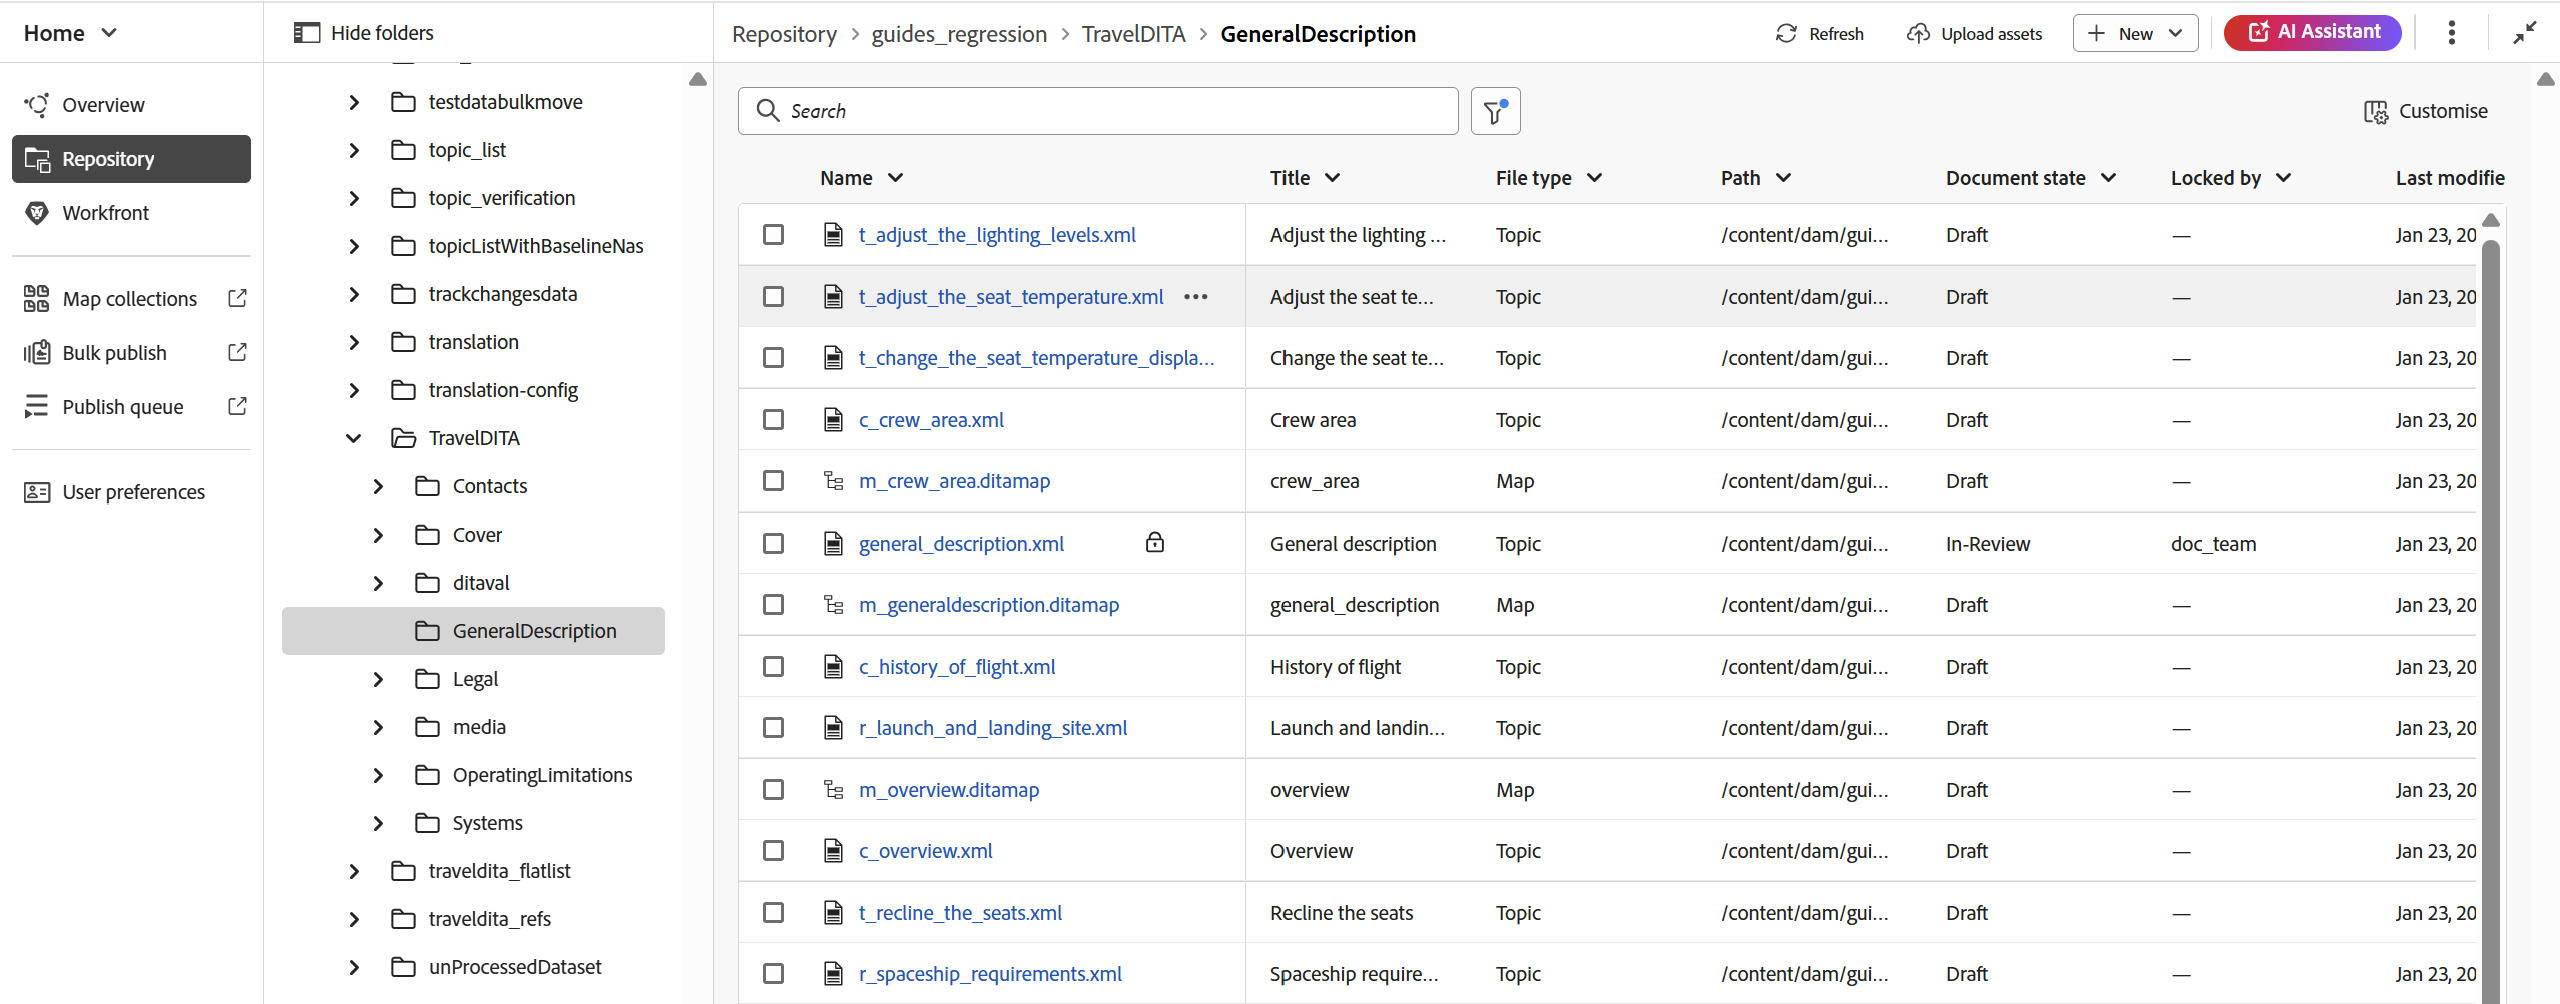
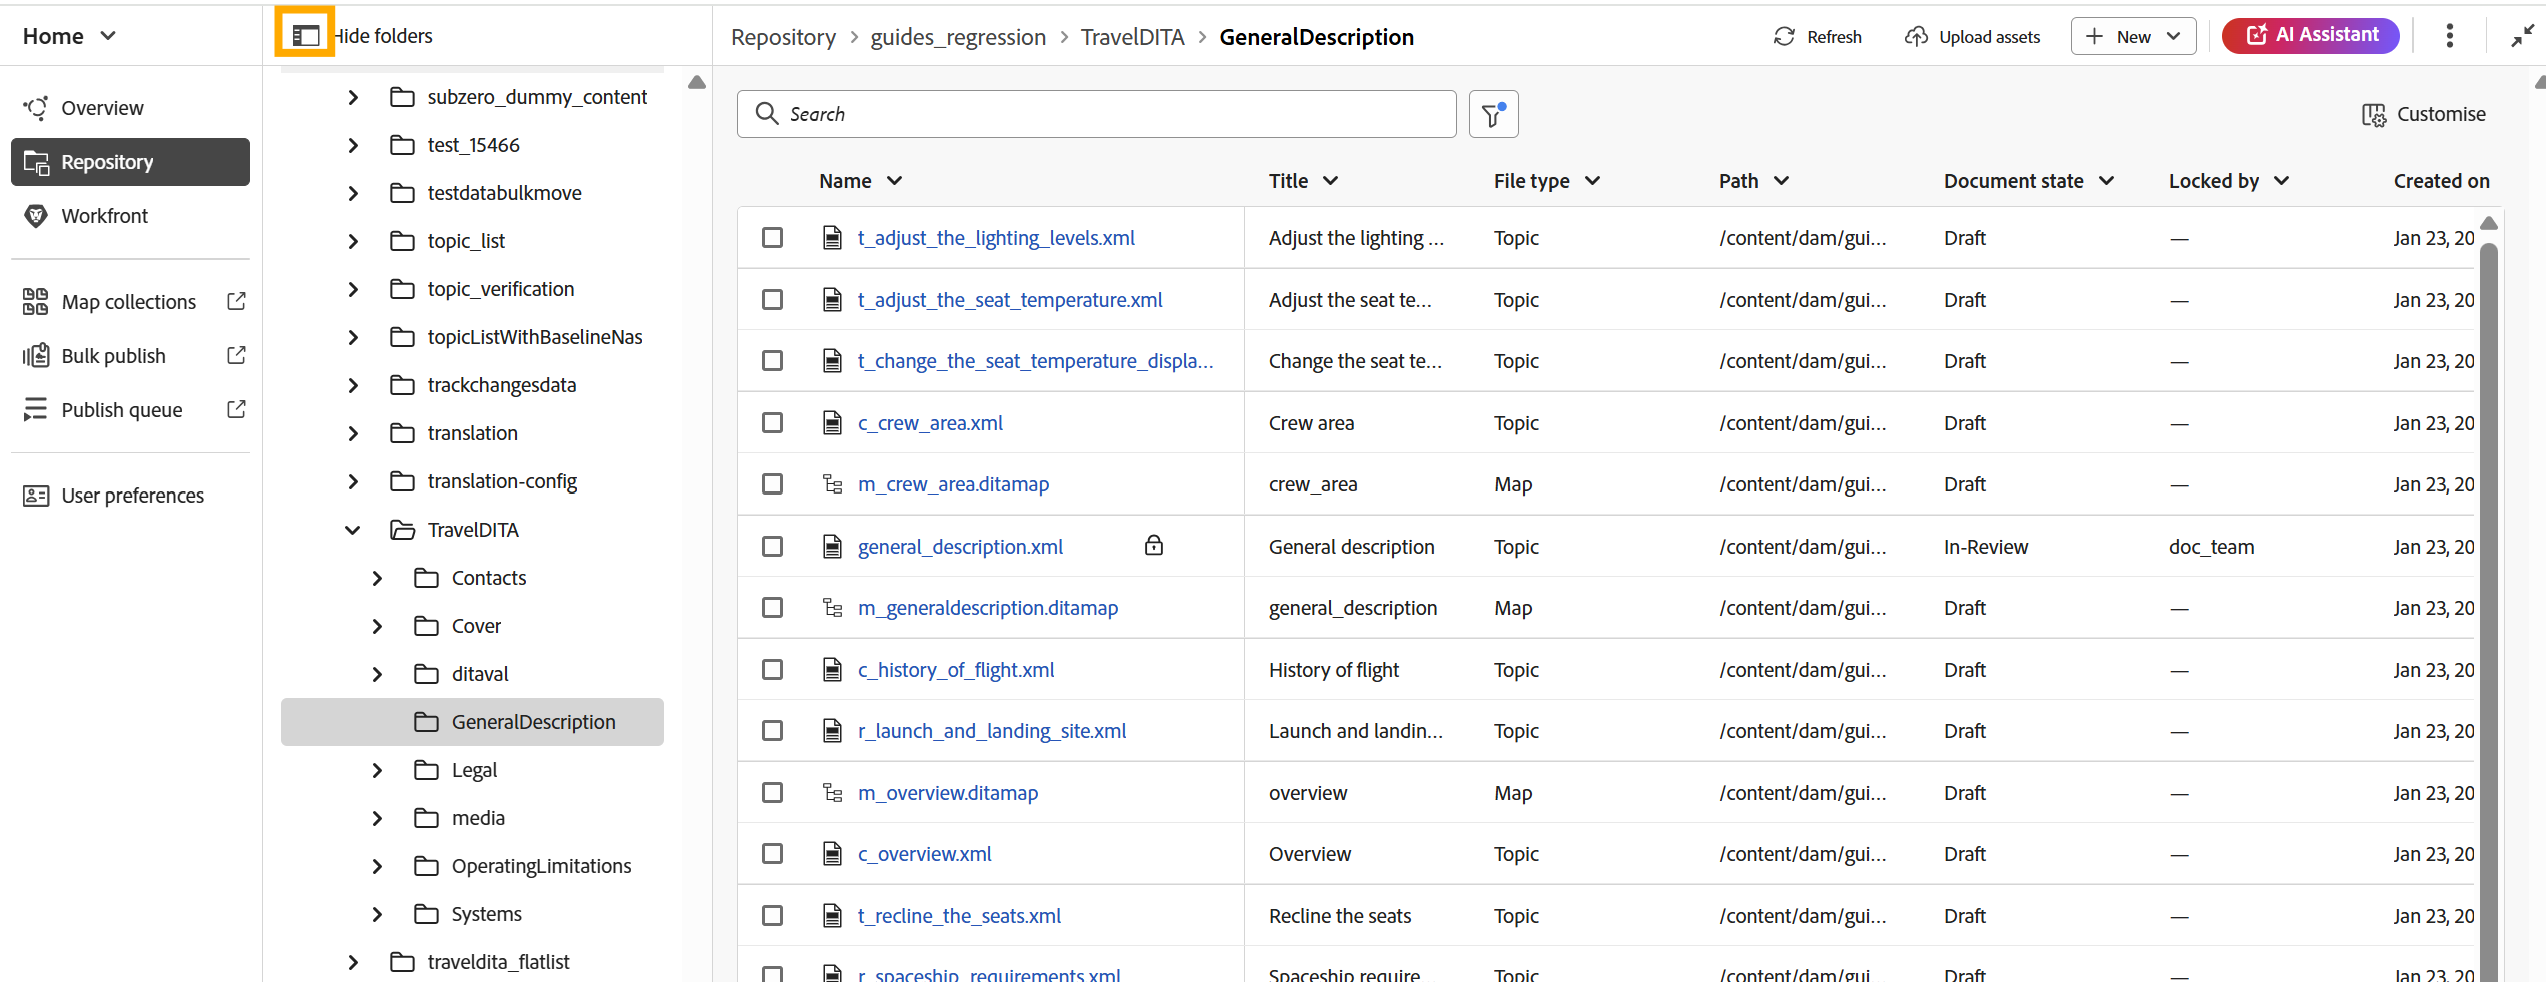
Repository view and related file updates

diff --git a/help/product-guide/user-guide/home-repository-view.md b/help/product-guide/user-guide/home-repository-view.md
@@ -18,18 +18,21 @@ It consists of the options as listed below.
 
 ![](images/repository-view-home.png){align="left"}
 
-**Tab bar**
+### Tab bar
 
 The Tab Bar, located at the top of the Repository interface, provides quick access to essential actions as listed.
 
 ![](images/tab-bar-repository-view.png){align="left"}
 
 
-- **Folder navigation panel**: Displays a hierarchical, tree-like structure of folders within the Repository, enabling seamless navigation. This panel shows folder-level information only. When a folder is selected from here, its contents, files and, sub-folders are displayed in the main view.
+- **Folder navigation panel**: Displays a hierarchical, tree-like structure of folders within the Repository, enabling seamless navigation. This panel shows folder-level information only. You can select the icon highlighted in the image below to show and hide this panel. When a folder is selected from here, its contents, files and, sub-folders are displayed in the central space.
 
     ![](images/folder-navigation-panel.png){align="left"}
 
-- **Breadcrumbs**: These offers navigation through the folders. You can use the breadcrumbs to traverse to the required location directly by directly selecting the required location. 
+- **Breadcrumbs**: These offers navigation through the folders. You can use the breadcrumbs to traverse to the required location by directly selecting the required location. 
+
+    ![](images/breadcrumbs.png){align="left"}
+
 - **Refresh**: Updates the Repository view to reflect the latest changes.
 - **Upload Assets**: Allows you to upload assets directly to the selected folder.
 - **New**: Enables the creation of new topics, maps, and folders within the Repository.
@@ -37,11 +40,11 @@ The Tab Bar, located at the top of the Repository interface, provides quick acce
 - **More actions**: Provides access to Workspace settings and Assets
 - **Expand view**: Allows you to expand the page view using the **Expand** icon.
 
-**Repository central window**
+### Repository view
 
-The Repository view serves as the central window where all folders and files within the repository are displayed. This interface offers customization options to enhance usability and visibility:
+The Repository view serves as the central space where all folders and files within the repository are displayed. It offers customization options and additional features to enhance usability and visibility as listed below:
 
-- **Customise**: You can modify the columns displayed by using the **Customise** option located at the top-right corner of the central window that provides a toggle control for the available fields. The Name and Title fields are mandatory and both cannot be disabled together. Other fields, such as File Type, UUID, Document State, Locked By, Created On, and Modified On, can be enabled or disabled as needed. You can also rearrange them by dragging and dropping.
+- **Customise**: You can modify the columns displayed by using the **Customise** option located at the top-right corner of the Repository view that provides a toggle control for the available fields. The Name or Title columns are mandatory and both cannot be disabled together. Other fields, such as File Type, UUID, Document State, Locked By, Created On, and Modified On, can be enabled or disabled as needed. You can also rearrange them by dragging and dropping.
 
     ![](images/customize-repo-view.png){align="left"}
 
@@ -51,7 +54,7 @@ The Repository view serves as the central window where all folders and files wit
 
 - **Editing the file**: 
 
-    - You can select one or multiple files from the central window for editing.
+    - You can select one or multiple files from the Repository view for editing.
     - After selecting the desired files using the checkbox, the **Edit** option becomes available in the top-right corner of the Repository View.
     - Clicking Edit opens the selected file(s) in the Editor Interface, where you can begin editing immediately.
 
@@ -66,11 +69,31 @@ The Repository view serves as the central window where all folders and files wit
     - **Add to collections**: Adds the selected folder to favorites. You can choose to add it to an existing or new collection.
     - **Reprocess assets**: Triggers the processing of all the newly created and unprocessed assets.
 
-- **Options menu for files**: Get access to different options in the Options menu on the file. Some common options available for both media and DITA files are: Lock, Preview, Duplicate, Move to, Rename, Delete, Add to collections, Copy as properties.   
+- **Options menu for files**: Get access to different options in the Options menu on the file. Some common options available for files are:   
+
         ![](images/options-file-repo.png){align="left"}
 
+    - **Edit**: Open the file for editing.
+    - **Duplicate**: Use this option to create a duplicate or a copy of the selected file.
+    - **Lock**: Get a lock on the selected file for editing. 
+    - **Preview**: Get a quick preview of the file (.dita, .xml, audio, video, or image) without opening it.
+    - **Rename**: Use this option to rename the selected file.
+    - **Move to**: Use this option to move the selected file to another folder. 
+    - **Delete**: Use this option to delete the selected file.
+    - **Copy**: Copies the UUID or complete path of the file
+    - **Add to**: Choose to add to collections or Reusable content.
+    - **Properties**: Use this to open the properties page of the selected file.
+    - **Edit in Oxygen**: Select this option to edit the selected file in the Oxygen connector plugin.
+    
+    >[!NOTE] 
+    >
+    >Contact your customer success team to get this feature enabled in the environment. This isn't enabled as a part of the out-of-the-box support. For more details, view the [Configure the option to edit in Oxygen ](../cs-install-guide/conf-edit-in-oxygen.md) section in the Installation and Configuration Guide.
 
-**Search and filter experience**
+    - **Download as PDF**: Use the option to generate the PDF output and download it.
+    - **Open in map dashboard**: In case the selected file is a DITA map, then this option opens the map dashboard.
+    - **Open in map console**: In case the selected file is a DITA map, then this option opens the map console.  
+
+### Search and filtering experience
 
 The Search panel in the Repository view helps in searching the required files from the Repository primarily on the basis of **File title**, **File name** and **Content**.
  

diff --git a/help/product-guide/user-guide/explorer-editor.md b/help/product-guide/user-guide/explorer-editor.md
@@ -1,13 +1,47 @@
 ---
-title: Create and preview topics
-description: Learn how to create and preview DITA topics in Adobe Experience Manager Guides.
+title: Search panel in Editor interface
+description: Learn how to use Search panel in the Editor interface.
 feature: Authoring
 role: User
 ---
 # Search panel
 
-The Search panel in the Explorer is located at the bottom and can be accessed through the Search icon on the top of the Explorer panel, or at the bottom left of the Content editing area.
-This panel displays all search results of the files 
+The Search panel in the Editor is a feature that enhances productivity by allowing quick access to relevant files and references while editing content. It helps streamline your workflow by enabling you to search, filter, and insert references without leaving the Editor interface. 
+
+You can locate the Search panel at the bottom of the Editor. It can be accessed either by clicking the Search icon at the top of the Explorer panel or through the Show in Search panel option when navigating from the Repository view on the Home interface.
+
+## Key Benefits
+
+- Centralized view of all search results for easy reference.
+- Drag-and-drop functionality to insert references directly into your current topic.
+- Flexible options to modify or refine searches without leaving the Editor.
+
+## Search from the Explorer panel
+
+When working in the Editor interface and you need to find relevant files:
+
+1. Select the **Search** icon located at the top-right corner of the Explorer panel.
+    This opens the **Search repository** dialog, which offers the same search and filtering experience as the Repository view on the Home page.
+
+    ![](images/search-repo-dialog.png){align="left"}
+
+2. Perform your search and apply filters as needed. For detailed instructions on search and filter options, view [Search and filtering experience](./home-repository-view.md#search-and-filtering-experience).
+3. Once your search is complete, select **Show in Search panel**. Your recent searches will then appear in the Search panel at the bottom of the Editor.
+
+    ![](images/show-search-explorer.png){align="left"}    
+
+4. Use the **Modify search** option on the Search panel to refine your results further.
+
+    ![](images/modify-search.png){align="left"}
+    
+    
+## Search from the Repository view 
+
+When you perform a search and apply filters on the Home page:
+
+- You can mirror these results in the Search panel by selecting Show in Search panel.
+- From here, you can easily drag and drop topics from the Search panel into your current topic in the Editor to attach references.
+
 
 
 

diff --git a/help/product-guide/user-guide/web-editor-left-panel.md b/help/product-guide/user-guide/web-editor-left-panel.md
@@ -112,6 +112,10 @@ You can also perform many actions using the Options menu available for a Collect
 
 ## Repository 
 
+>[!NOTE]
+>
+> Starting with the 2511 release, the term Repository in the Editor will be deprecated and replaced by Explorer for Cloud Services users. For On-Premise users, this feature will be introduced after the 5.2 release; until then, they will continue to see Repository in the Editor interface. 
+
 When you select the Repository icon, you get a list of files and folders available in DAM. By default, you can view the files by titles. As you hover over a file, you can view the file title and the file name as a tooltip.   
 
 >[!NOTE]
@@ -200,7 +204,7 @@ This is in sync with the search box on the repository window. For example, if yo
     >
     >The list of filtered files that contain the searched text is displayed. For example, the files containing the text `personal spaceship` are listed in the previous screenshot. You can select multiple files from the filtered list to drag and drop them into a map opened for editing.
 
-**Options menu**
+### Options menu
 
 In addition to opening files from the left panel, you can also perform many actions using the Options menu available in the Repository view. You will view different options, depending on whether you choose a folder, topic file, or a media file.
 
@@ -420,6 +424,23 @@ The various options in the Options menu are explained below:
 -  **Download as PDF**: Use the option to generate the PDF output and download it.  
 
 - **Generate**: Use the option to publish a map or topics within a map to a Sites page, Content Fragment, or Experience Fragment.
+
+## Explorer
+
+>[!NOTE] 
+>
+> Starting with the 2511 release, the term Repository in the Editor will be replaced by Explorer for Cloud Services users. For On-Premise users, this feature will be introduced after the 5.2 release; until then, they will continue to see Repository in the Editor.
+
+Explorer provides all the capabilities previously available in Repository, including:
+
+- Navigation through files and folders
+- Options menu for files and folders
+
+In addition, Explorer introduces an enhanced Search and Filtering experience, designed to improve usability and efficiency.
+
+For detailed information on the context menu for files and folders, view [Options menu](./web-editor-left-panel.md#options-menu.
+
+For detailed information on the Search experience, view [Search panel](./explorer-editor.md).
 
 ## Map 
 

diff --git a/help/product-guide/user-guide/intro-home-page.md b/help/product-guide/user-guide/intro-home-page.md
@@ -9,7 +9,7 @@ exl-id: 4e6e40ba-277b-43d5-a2a9-665f4586c7e3
 
 The Home page is the first screen that you view when logging into Experience Manager Guides. It provides you with a unified and intuitive welcome screen experience, which includes a quick view of the files that you recently accessed, collections, and more.
 
-![](images/aem-home-page.png){align="left"}
+![](images/aem-home-page-new.png){align="left"}
 
 The Experience Manager Guides Home page is divided into the following sections: 
 
@@ -60,9 +60,13 @@ Features available in the navigation bar are explained as follows:
 
 ## Left panel 
 
+>[!NOTE]
+>
+> Repository is available in the Left panel only for Cloud services users from 2511 onwards. For On-Premise users, this feature continues to be accessed from the Editor interface.
+
 The left panel gives you quick access to Overview, Map collections, Bulk publish, Publish queue, and User preferences features. You can expand the panel by selecting the **Expand** icon placed at the bottom-left corner of the interface. Once expanded, use the **Collapse** icon to collapse the panel.
 
-![](images/aem-home-left-panel.png){width="300" align="left"}
+![](images/home-with-repository.png){width="300" align="left"}
 
 What you view on this panel depends on your user role. The following table lists the roles and the respective sections that are displayed in the left panel.
 
@@ -144,6 +148,10 @@ The following widgets are present in the Widgets section:
 >[!NOTE]
 >
 > In addition, if your administrator has configured Adobe Workfront integration in the system, then **Your tasks** widget is also shown in the Widgets section. Learn more about [Adobe Workfront integration](./workfront-integration.md#working-with-the-your-tasks-widget) in Experience Manager Guides.
+
+### Repository
+
+The Repository serves as a centralized hub for managing and discovering folders and files with ease. It provides a comprehensive view of all repository contents, enabling advanced customization for improved information access. Through this unified interface, you can seamlessly perform multiple actions and conducting precise searches with robust filtering options, ensuring efficiency, organization, and an enhanced user experience. Learn more about [Repository](./home-repository-view.md)
 
 ### Map collections 
 
